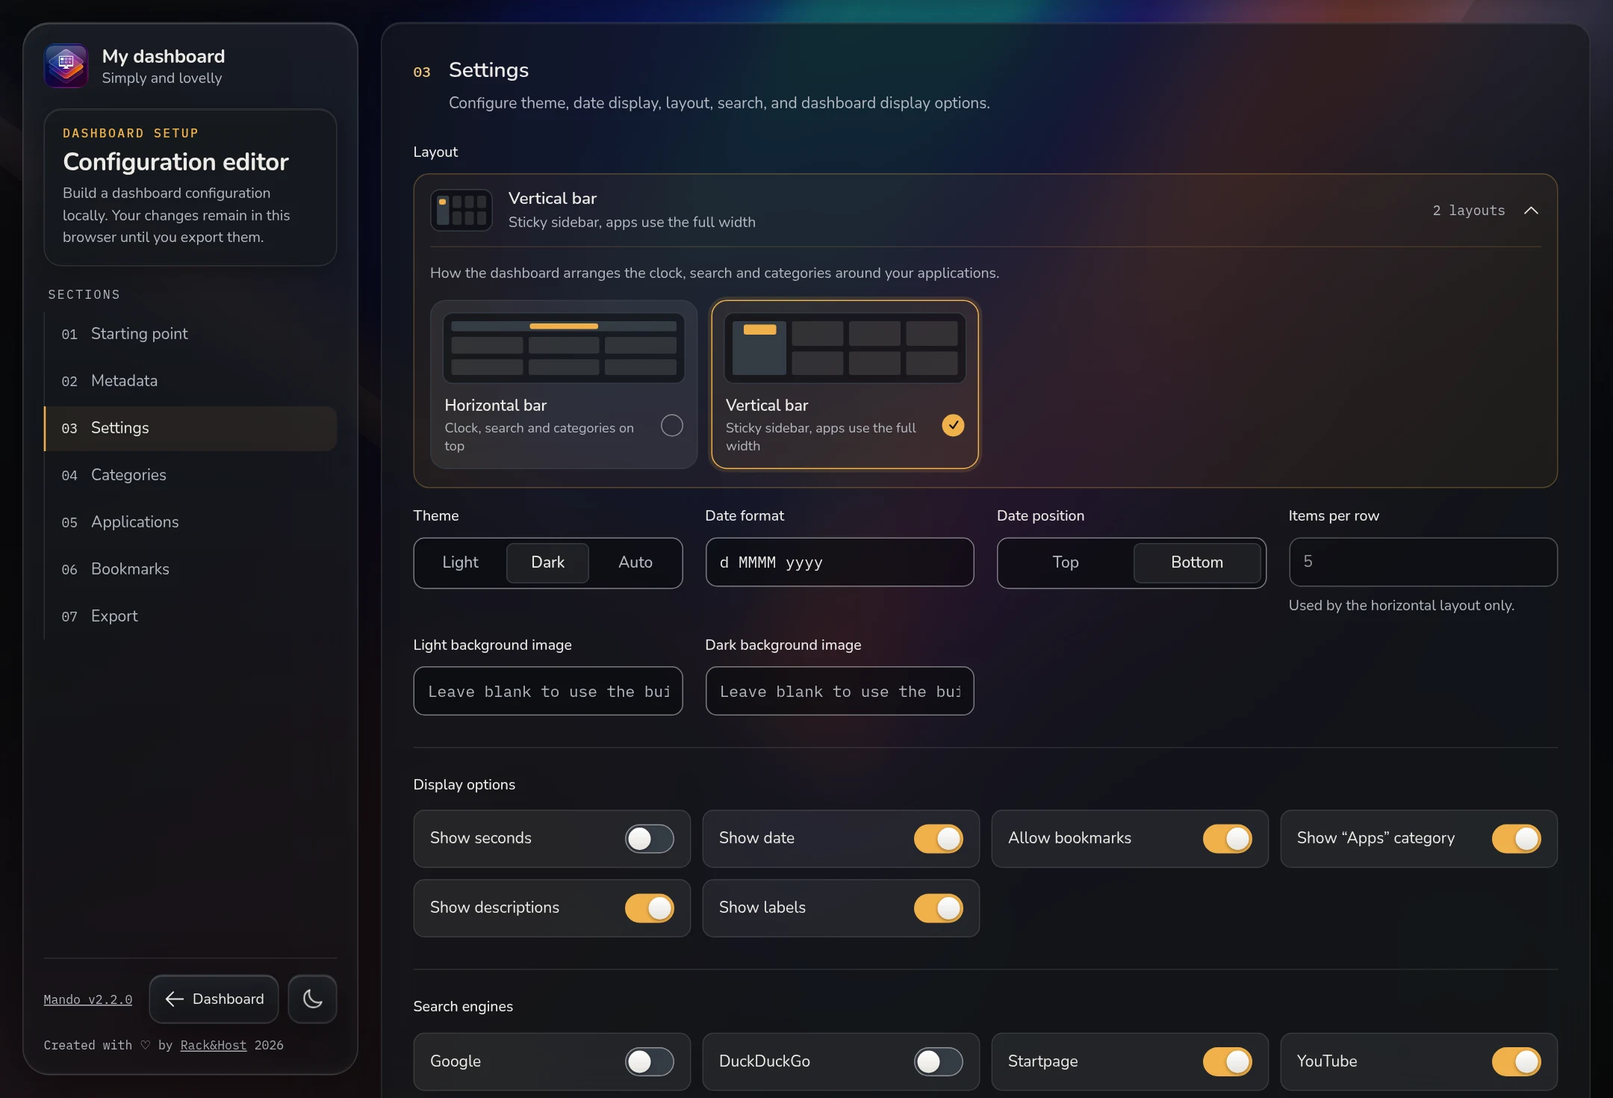
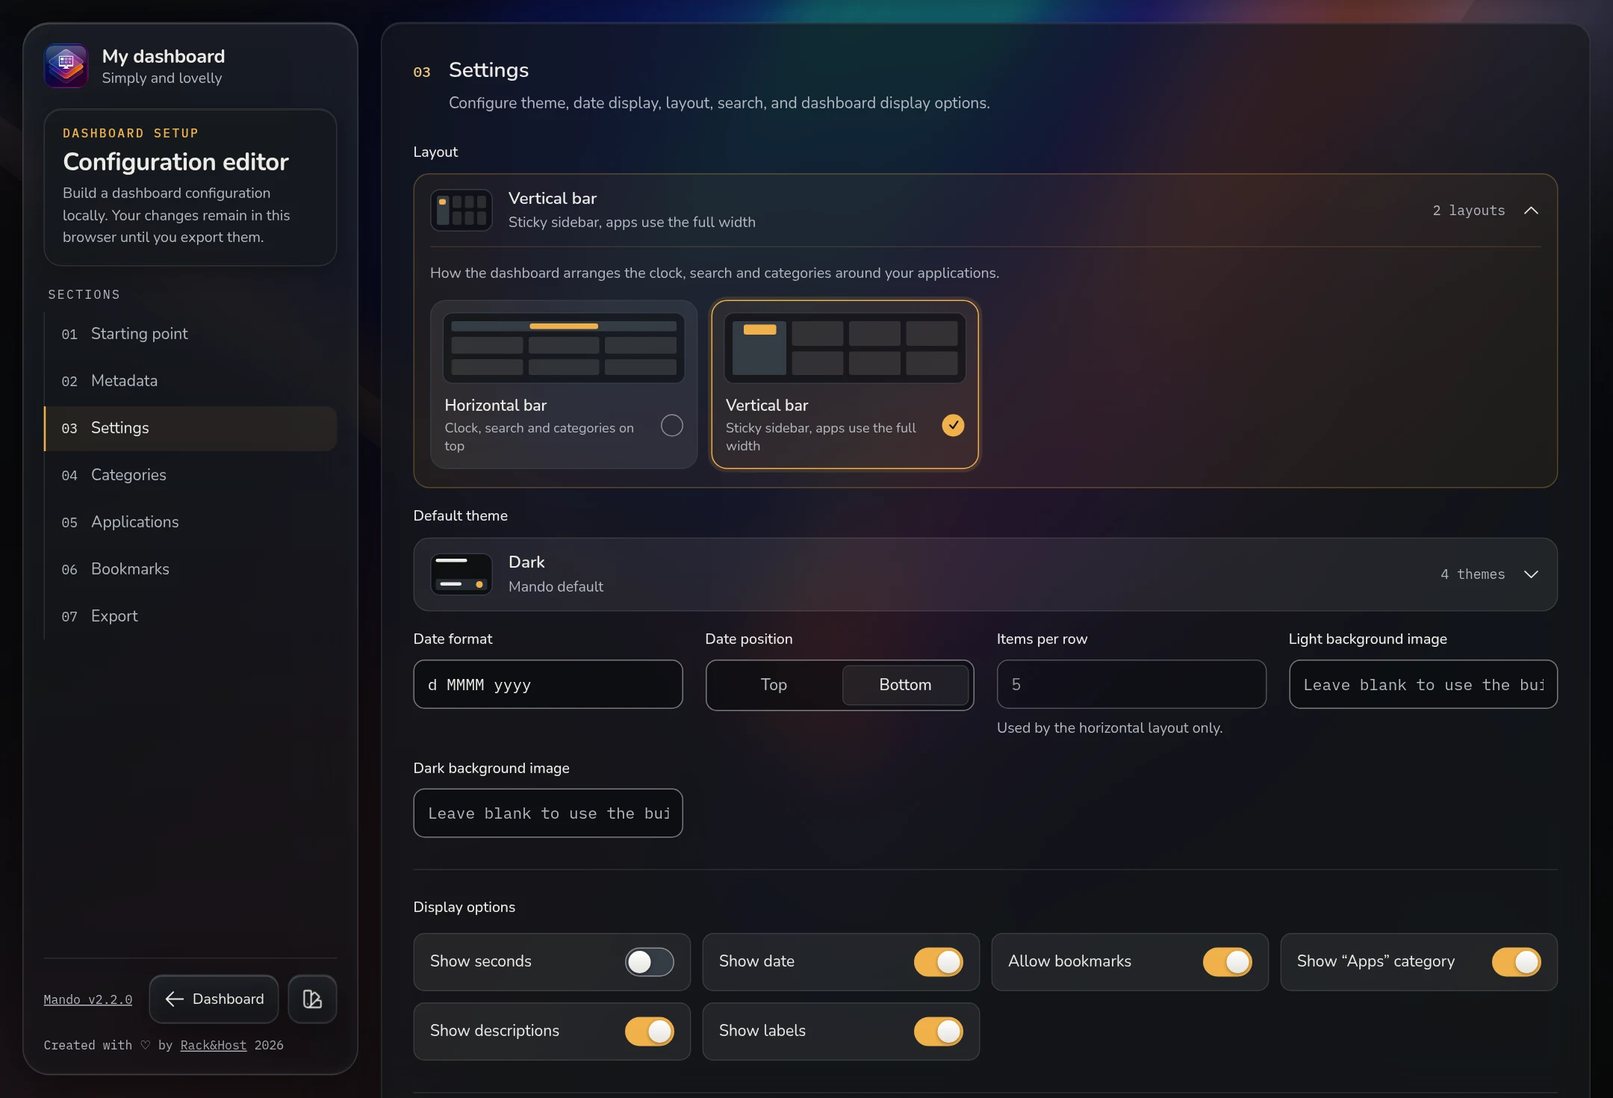
docs(theme): document the theme picker and Catppuccin Mocha, regenerate the screenshots
README: Themes paragraph, theme row, Default theme control and the Mocha captures. ARCHITECTURE: theme registry and resolution, per-theme stylesheets, menu surface of the audit. CHANGELOG: Mocha, the picker and the Default theme control. All nine screenshots are captured again from one build so every one shows the new theme button.

diff --git a/ARCHITECTURE.md b/ARCHITECTURE.md
@@ -43,7 +43,7 @@ Versions below are the ranges declared in [package.json](package.json) and
 | RxJS                    | 7.8             | HTTP startup flow and other genuine asynchronous boundaries          |
 | Vitest                  | 4.0             | Unit and component tests, in the app and the sidecar                 |
 | Angular Testing Library | 19.1            | User-oriented component rendering and interaction tests              |
-| Tailwind CSS            | 4.1             | Utility-first styling, including class-based dark mode               |
+| Tailwind CSS            | 4.1             | Utility-first styling over the per-theme CSS tokens                  |
 | Zod                     | 4.3             | Runtime dashboard schema and inferred types, shared with the sidecar |
 | js-yaml                 | 4.3             | YAML text parsing and serialization, shared with the sidecar         |
 | Fastify                 | 5.2             | `server/` config-write sidecar HTTP server                           |
@@ -68,13 +68,14 @@ src/
       models/             Zod schemas, inferred types, defaults, shared validation
       scroll/             ScrollStateService, its pure core and the browser metrics token
       services/           configuration, state, domain operations, and diagnostics
+      themes/             the theme registry: the only list of themes
     features/
       configurator/       browser-based YAML editor, loaded as a lazy route; chrome/ holds one page arrangement per layout
     shared/
-      components/         reusable or feature-level presentation components; rail/ is the vertical layout's sidebar
+      components/         reusable or feature-level presentation components; rail/ is the vertical layout's sidebar, theme-picker/ the theme dialog
       directives/         sticky dock, rail stick, chip autocenter and horizontal-nav directives
     views/dashboard/      route component that switches between horizontal/ and vertical/ page compositions
-  styles/                 design tokens, glass surface recipes, base layer, self-hosted fonts
+  styles/                 design tokens, one stylesheet per theme (themes/), glass surface recipes, base layer, self-hosted fonts
   testing/                shared test helpers and tooling regression tests
 public/
   config/                 runtime YAML and user-facing example
@@ -336,7 +337,8 @@ Examples:
 - `AppCategoriesComponent` delegates selection through `AppService.setSelectedCategory`.
 - `AppService.filteredApps` combines configuration, bookmarks, search, and category signals.
 - `NotificationService` owns a bounded signal list and timer-backed dismissal.
-- `ThemeService` owns theme mode and resolved light/dark signals.
+- `ThemeService` owns the device's stored theme choice, the committed theme, the transient preview and
+  `<html data-theme>` (see Theme Resolution).
 - `ConfiguratorStore` owns the editor draft, dirty flag, and validation errors for the lifetime of
   the `configure` route.
 - `AppStatusService` owns the statuses signal keyed by application id and its polling lifecycle (see
@@ -349,24 +351,46 @@ not introduce `BehaviorSubject` as a general store or wrap synchronous signal st
 
 ## Theme Resolution
 
-`ThemeService` resolves mode in this order:
+[theme.registry.ts](src/app/core/themes/theme.registry.ts) is the only list of themes (`THEMES`): id,
+name, description, the background slot the theme uses (`light` or `dark`) and the swatch the picker
+draws. `ThemeId`, the `settings.theme` schema (`THEME_SETTINGS`, which adds `auto`: a value of the
+setting, not a theme), the picker, the editor's Default theme control and the contrast audit are all
+derived from it. A theme is the stylesheet `styles/themes/<id>.css`, selected by
+`<html data-theme="<id>">`; the default theme (`dark`) also answers to a bare `:root`.
 
-1. A non-empty persisted value under `dashboard-theme` is treated as the user's preference and
-   wins over configuration. The storage value is type-cast rather than runtime-validated.
-2. Without a persisted value, the YAML `settings.theme` value controls the mode and may update when
-   configuration arrives.
-3. An explicit user selection calls `setThemeMode`, takes precedence for the session, and attempts
-   to persist.
-4. Mode `auto`, whether configured, persisted, or selected, resolves through the system
-   `prefers-color-scheme: dark` media query.
+`ThemeService` has three layers, each a computed over the one before:
 
-The resolved theme updates the root `dark` class and `data-theme` attribute. System changes update
-the rendered theme only while mode is `auto`. Dashboard background selection reacts to both
-settings and resolved theme.
+1. `preference`: a persisted value under `dashboard-theme` wins over configuration. It is a
+   registered id, or `auto` as earlier versions wrote it; any other stored value is ignored as if
+   absent. Without one, the YAML `settings.theme` governs and may change when configuration arrives.
+2. `committed`: the preference resolved to a theme. `auto` resolves through the system
+   `prefers-color-scheme: light` media query and follows system changes live.
+3. `theme`: what is shown, the transient preview if there is one, else `committed`. `info()` is its
+   registry entry.
+
+`select(id)` stores a choice (which ends `auto` on that device) and drops the preview. `preview` and
+`cancelPreview` change only what is shown and never touch storage. `clearPreference()` removes the
+stored choice so the configured theme governs again: the configurator's Save calls it when the saved
+`settings.theme` differs from the one in force, before refreshing the live configuration, so the
+saved theme shows at once; saving anything else keeps the device's choice. One effect writes
+`data-theme` on `<html>`, the only DOM write (there is no `dark` class). The dashboard picks
+`lightBackgroundImage` or `darkBackgroundImage` from `info().background`.
+
+First paint: an inline script in `index.html` copies the stored value to `data-theme` before the
+stylesheet paints, interpreting only `auto`. An unknown value matches no theme selector, so the
+default theme paints until `ThemeService` rewrites the attribute.
+
+The picker is [ThemePickerComponent](src/app/shared/components/theme-picker/theme-picker.component.ts):
+a native `<dialog>` opened with `showModal()`, so the browser supplies the focus trap and the inert page
+and the top layer lifts it above the glass chrome that would clip a fixed overlay. Highlighting a row
+other than the committed theme previews it; Enter or a click commits (`select`); `Esc`, Close and the
+backdrop restore the committed theme. It closes if its button is hidden (a layout change). The swatch
+it draws, `ThemePreviewComponent`, lives in `shared/` and is also used by the editor's Default theme
+control, because `shared/` must not import from `features/`.
 
 Storage failures are non-fatal. A read failure logs and warns, then falls back to configured theme.
-A write failure logs and warns, while preserving the user's selection for the current session. The
-YAML setting itself is not written to browser storage.
+A write or clear failure logs and warns, while the selection still applies for the current session.
+The YAML setting itself is not written to browser storage.
 
 ## Layouts
 
@@ -401,11 +425,13 @@ compacting dock.
 
 ## Design Tokens and Glass Surfaces
 
-The look comes from three CSS files under [src/styles](src/styles), imported by `styles.css`:
+The look comes from the CSS under [src/styles](src/styles), imported by `styles.css`:
 
-- [tokens.css](src/styles/tokens.css) declares every colour, radius, shadow, glass blur and
-  legibility floor twice: the light set on `:root` and the dark set under the `dark` class that
-  `ThemeService` puts on `<html>`. A token exists in both sets or in neither.
+- [tokens.css](src/styles/tokens.css) keeps what no theme changes (a non-colour constant) and the
+  `@theme inline` mapping that makes the Tailwind utilities (`bg-accent`, `text-muted`, …) follow the
+  active theme. Each theme declares every colour, radius, shadow, glass blur and legibility floor in
+  its own [themes/](src/styles/themes) stylesheet under `:root[data-theme='<id>']`. A token exists in
+  every theme or in none.
 - [surfaces.css](src/styles/surfaces.css) holds the recipes `glass-chrome`, `glass-clock`,
   `glass-card` and `glass-field`. A component takes a recipe class and adds only its own radius and
   layout. Each glass surface paints an opaque `--surface` floor of token-defined opacity under a
@@ -416,9 +442,12 @@ The look comes from three CSS files under [src/styles](src/styles), imported by 
   while the configurator is mounted. [fonts.css](src/styles/fonts.css) declares the self-hosted
   Nunito and IBM Plex Mono Latin subsets.
 
-[design-tokens.spec.ts](src/styles/design-tokens.spec.ts) measures every text / surface pair of both
-themes, with and without `backdrop-filter`, through `src/testing/token-audit.ts`. Changing a token
-or a recipe is verified there before any browser check.
+[design-tokens.spec.ts](src/styles/design-tokens.spec.ts) iterates the theme registry: it checks that
+each theme's stylesheet is imported and declares the same tokens as the others, and measures every
+text / surface pair of every theme, with and without `backdrop-filter`, through
+`src/testing/token-audit.ts`. The audit includes the `menu` surface, the translucent panel of the
+theme picker, which axe cannot measure. Adding a theme or changing a token or a recipe is verified
+there before any browser check.
 
 ## Scroll State and Sticky Chrome
 
@@ -584,8 +613,8 @@ repository itself.
 | App status badges              | `AppStatusService`, `app-card`, `status-poller.ts`, `status-checker.ts`    | Opt-in default, any response is up, polls only while monitored         |
 | Sticky dock or header behavior | `ScrollStateService`, `StickyDockDirective`, the page's dock markup        | Pure-core specs, loop-free eligibility, breaker, reduced motion, short viewports |
 | Layout, rail or page chrome   | `SettingsService.layout`, `DashboardComponent`, `AppShellComponent`, `rail/`, `ConfiguratorChrome` | Both layouts at 1920, 834 and 390 px, layout swap keeps place, axe, keyboard walk, horizontal pixel diff |
-| Colours, surfaces, blur        | `tokens.css`, `surfaces.css`, `design-tokens.spec.ts`                      | Contrast audit in both themes, with and without `backdrop-filter`      |
-| Theme or backgrounds           | `ThemeService`, `SettingsService`, dashboard view                          | Precedence, storage failures, auto media changes, both backgrounds     |
+| Colours, surfaces, blur        | `tokens.css`, `themes/*.css`, `surfaces.css`, `design-tokens.spec.ts`      | Contrast audit in every registered theme, with and without `backdrop-filter` |
+| Theme or backgrounds           | `theme.registry.ts`, `ThemeService`, `ThemePickerComponent`, `SettingsService`, dashboard view | Registry-derived lists, precedence and unknown stored values, preview vs commit, storage failures, auto media changes, Save clearing the device choice, background slots, first paint |
 | Search or categories           | `SearchService`, `CategoryService`, `AppService`                           | Local UI state, computed filtering, keyboard behavior                  |
 | Notifications or errors        | Producer, `NotificationService`, `GlobalErrorHandler`                      | One notification owner, safe copy, diagnostics, root toast             |
 | Deployment or config mount     | `angular.json`, Dockerfile, nginx config, `entrypoint.sh`                  | Output path, cache rules, mount path, `/api` proxy, health, multi-arch |

diff --git a/README.md b/README.md
@@ -22,12 +22,16 @@
 <img alt="Visual configurator with the layout selector open" width="1024" src="screenshots/configurator_layout.webp" />
 
 <details>
-<summary><strong>More screenshots</strong> (light theme, phone, configurator)</summary>
+<summary><strong>More screenshots</strong> (light theme, Catppuccin Mocha, phone, configurator)</summary>
 <br>
 
 <img alt="Dashboard, horizontal layout, light theme" width="1024" src="screenshots/dashboard_light.webp" />
 
 <img alt="Dashboard, vertical layout, light theme" width="1024" src="screenshots/dashboard_vertical_light.webp" />
+
+<img alt="Dashboard, horizontal layout, Catppuccin Mocha theme" width="1024" src="screenshots/dashboard_mocha.webp" />
+
+<img alt="Dashboard, vertical layout, Catppuccin Mocha theme" width="1024" src="screenshots/dashboard_vertical_mocha.webp" />
 
 <img alt="Visual configurator, horizontal layout" width="1024" src="screenshots/configurator.webp" />
 
@@ -41,7 +45,8 @@
 
 ### ✨ Key Features
 
-- **🎨 Inspiring Design** - Minimalist glass interface in light and dark themes: a one-row clock, a search dock that compacts as you scroll, and surfaces that stay legible over any background photo
+- **🎨 Inspiring Design** - Minimalist glass interface: a one-row clock, a search dock that compacts as you scroll, and surfaces that stay legible over any background photo
+- **🌗 Themes** - Dark, Light and [Catppuccin Mocha](https://catppuccin.com), chosen from a picker that previews each theme before you apply it; the choice is remembered per browser and `settings.theme` sets the default
 - **🧭 Two Layouts** - Choose a horizontal bar (clock, search and categories on top) or a vertical bar (sticky sidebar, apps use the full width) with `settings.layout`, from the configurator or the YAML
 - **⚡ Fast & Lightweight** - Built with Angular 21 and TailwindCSS 4 for optimal performance
 - **🔍 Real-time Search** - Instant search through your applications
@@ -147,20 +152,6 @@ Then open `http://localhost:8080/configure` and Save.
 > disabled (copy and download still work). To edit from the browser, mount the config
 > **directory** `:rw` (`./config:/app/config:rw`, keeping your existing
 > `./config/dashboard.yaml` in place) and set `CONFIG_WRITE_TOKEN`.
-
-### Beta images (self-hosted Forgejo)
-
-The `develop` branch can be published as a **beta** image to a Forgejo container registry. Betas
-are never published to GHCR, never tagged `latest`, and are not meant for production. If you run
-your own Forgejo with this repository mirrored, you can pull them:
-
-```bash
-docker pull <forgejo-host>/<owner>/getmando:beta                 # moving pointer to the latest beta
-docker pull <forgejo-host>/<owner>/getmando:v2.1.1-beta.<run>    # immutable, one per run
-```
-
-The image is the same `linux/amd64` + `linux/arm64` build as production. See
-[ARCHITECTURE.md](ARCHITECTURE.md#build-and-deployment) for how a beta is produced.
 
 ---
 
@@ -318,6 +309,9 @@ server. Copy and download happen entirely in the browser and never touch the mou
 The **Layout** control in the Settings section chooses how the dashboard and the editor itself are
 arranged (see `settings.layout` below). Picking one changes the draft only; the page switches
 once you save the configuration.
+
+The **Default theme** control in the same section sets `settings.theme` (see "Themes" below). It also
+changes the draft only: the page keeps the theme you picked until you save.
 
 **Save** writes the validated draft to the mounted `dashboard.yaml` over
 `POST /api/config`, so the running dashboard reflects it immediately without a manual copy. It
@@ -536,7 +530,7 @@ bookmarks:
 
 | Field                  | Type            | Default          | Options                      | Description                                   |
 |------------------------|-----------------|------------------|------------------------------|-----------------------------------------------|
-| `theme`                | `string`        | `auto`           | `auto`, `light`, `dark`      | Set dark and light mode                       |
+| `theme`                | `string`        | `dark`           | `auto`, `dark`, `light`, `catppuccin-mocha` | Default theme; `auto` follows the system's light or dark setting (see Themes below) |
 | `layout`               | `string`        | `horizontal`     | `horizontal`, `vertical`     | Page layout of the dashboard and the editor   |
 | `dateFormat`           | `string`        | `dd-MM-yyyy`     | Any format                   | Date format for clock display                 |
 | `datePosition`         | `string`        | `top`            | `top`, `bottom`              | Clock date position                           |
@@ -548,8 +542,8 @@ bookmarks:
 | `showDescriptions`     | `boolean`       | `true`           | -                            | Show app descriptions in cards                |
 | `showLabels`           | `boolean`       | `true`           | -                            | Show app tags as labels                       |
 | `searchEngines`        | `array[string]` | `[]`             | See below                    | Available search engines                      |
-| `lightBackgroundImage` | `string`        | `background.jpg` | -                            | Custom image or url as light theme background |
-| `darkBackgroundImage`  | `string`        | `background.jpg` | -                            | Custom image or url as dark theme background  |
+| `lightBackgroundImage` | `string`        | `background.jpg` | -                            | Custom image or url as the background of the `light` theme |
+| `darkBackgroundImage`  | `string`        | `background.jpg` | -                            | Custom image or url as the background of the dark themes (`dark`, `catppuccin-mocha`) |
 
 **Layouts:** `horizontal` is the original page: header, clock, search and categories on top, in a
 centred column. `vertical` puts them in a sticky sidebar next to an app grid that uses the full
@@ -557,6 +551,16 @@ width, so `itemsPerRow` does not apply to it (the editor disables that field). B
 sidebar becomes a bar at the top of the page. A file without `layout` renders the horizontal layout,
 so upgrading changes nothing until you choose the other one. The configurator follows the same
 setting.
+
+**Themes:** Mando ships `dark` (the default), `light` and `catppuccin-mocha`. The **Change theme** button
+(next to the gear in the header; at the bottom of the sidebar in the vertical layout) opens the theme
+picker: `↑ ↓` or the mouse preview a theme on the page, `↵` or a click applies it, `Esc` goes back to
+the one you had. The choice is kept in this browser's `localStorage` (`dashboard-theme`) and wins over
+the file on that device. `settings.theme` is the default for every browser that has not picked one;
+`auto` follows the system's light or dark setting and is only a default, the picker never lists it.
+Saving a configuration whose `theme` differs from the one in force clears that browser's own choice, so
+what you just saved shows at once; saving anything else leaves it alone. A stored value that is not a
+theme is ignored.
 
 **Backgrounds and legibility:** every card, bar and panel keeps an opaque floor under its glass, so
 text keeps its contrast over any image you set in `lightBackgroundImage` / `darkBackgroundImage`,

diff --git a/CHANGELOG.md b/CHANGELOG.md
@@ -8,6 +8,12 @@
 - **Layout option: horizontal bar or vertical bar**: a new `settings.layout` (`horizontal` or `vertical`, default `horizontal`) chooses how the dashboard and the configurator are arranged. `horizontal` is the existing page, unchanged. `vertical` puts the brand, clock, search, categories and actions in a sticky sidebar beside an app grid that uses the full width (below 1024 px the sidebar becomes a bar on top that keeps the search and the categories stuck while you scroll). The configurator follows the same layout, with its section navigation in the sidebar. Choose it in the configurator's Settings section (a Layout control with a schematic of each) or in the YAML. A file without `layout` keeps rendering the horizontal layout, and `itemsPerRow` only applies to it, so the configurator disables that field with the vertical layout. Saving a layout change redraws the editor in the new layout and keeps you at the same section.
 - **Status badge is a text pill**: the health badge of an application card is now a pill with a status dot and the label `UP` or `DOWN` instead of a ✓ / ✕ circle. The label, not only the colour, carries the state, and the card's accessible name reads `<name>, online` or `<name>, offline`. Nothing changes in `healthCheck` or in `GET /api/status`.
 - **Write capability endpoint**: the sidecar exposes a public, read-only `GET /api/capabilities` that answers `{ "write": boolean }`. The configurator disables Save when the server reports that writing is off (no `CONFIG_WRITE_TOKEN`); if the endpoint cannot be reached Save stays enabled, as before. The endpoint never returns the token.
+- **Catppuccin Mocha and the theme picker**: a third theme, `catppuccin-mocha` ([Catppuccin](https://catppuccin.com) Mocha, with the palette's mauve accent), and a picker to choose among the themes. The picker opens from the **Change theme** button of the header (or the bottom of the sidebar in the vertical layout) as a modal dialog with a search field and a swatch per theme: `↑ ↓` or the mouse preview a theme on the page, `↵` or a click applies it, `Esc`, Close or a click outside go back to the one you had. The choice is kept in this browser (`dashboard-theme`). The dialog is a native `<dialog>` (focus trapped, page behind inert) with a listbox the keyboard drives from the search field; axe reports no violation in the three themes at 1440, 390 and 320 px. Because axe cannot decide contrast over the dialog's translucent panel, every text / surface pair of every theme, that panel included, is checked by the unit contrast audit instead. Initial bundle 828.0 kB (+15.9 kB over `develop`; 181.0 kB transferred).
+- **Default theme control in the configurator**: the Settings section has a **Default theme** control (the same swatches, plus `Auto`, which follows the system) that sets `settings.theme`. Like Layout it changes the draft only: the page keeps the theme you picked until you save.
+
+### Changed
+
+- **Light and dark are themes, and `Toggle theme` is the picker**: `settings.theme` accepts `auto`, `dark`, `light` and `catppuccin-mocha` (default `dark`, as the schema already had; the README listed `auto`) and is the default for every browser that has not picked a theme. `auto` keeps following the system. The one-click light/dark toggle is gone: the picker needs one more click for the same switch. A stored `dashboard-theme` that is not a theme is now ignored instead of trusted. Saving a configuration whose `theme` differs from the one in force clears that browser's own choice, so the theme you saved shows at once; saving other settings keeps it. `catppuccin-mocha` uses `darkBackgroundImage`. Existing `dashboard.yaml` files keep their meaning; the app now selects a theme with `<html data-theme>` instead of the `dark` class.
 
 ### Bug Fixes
 
